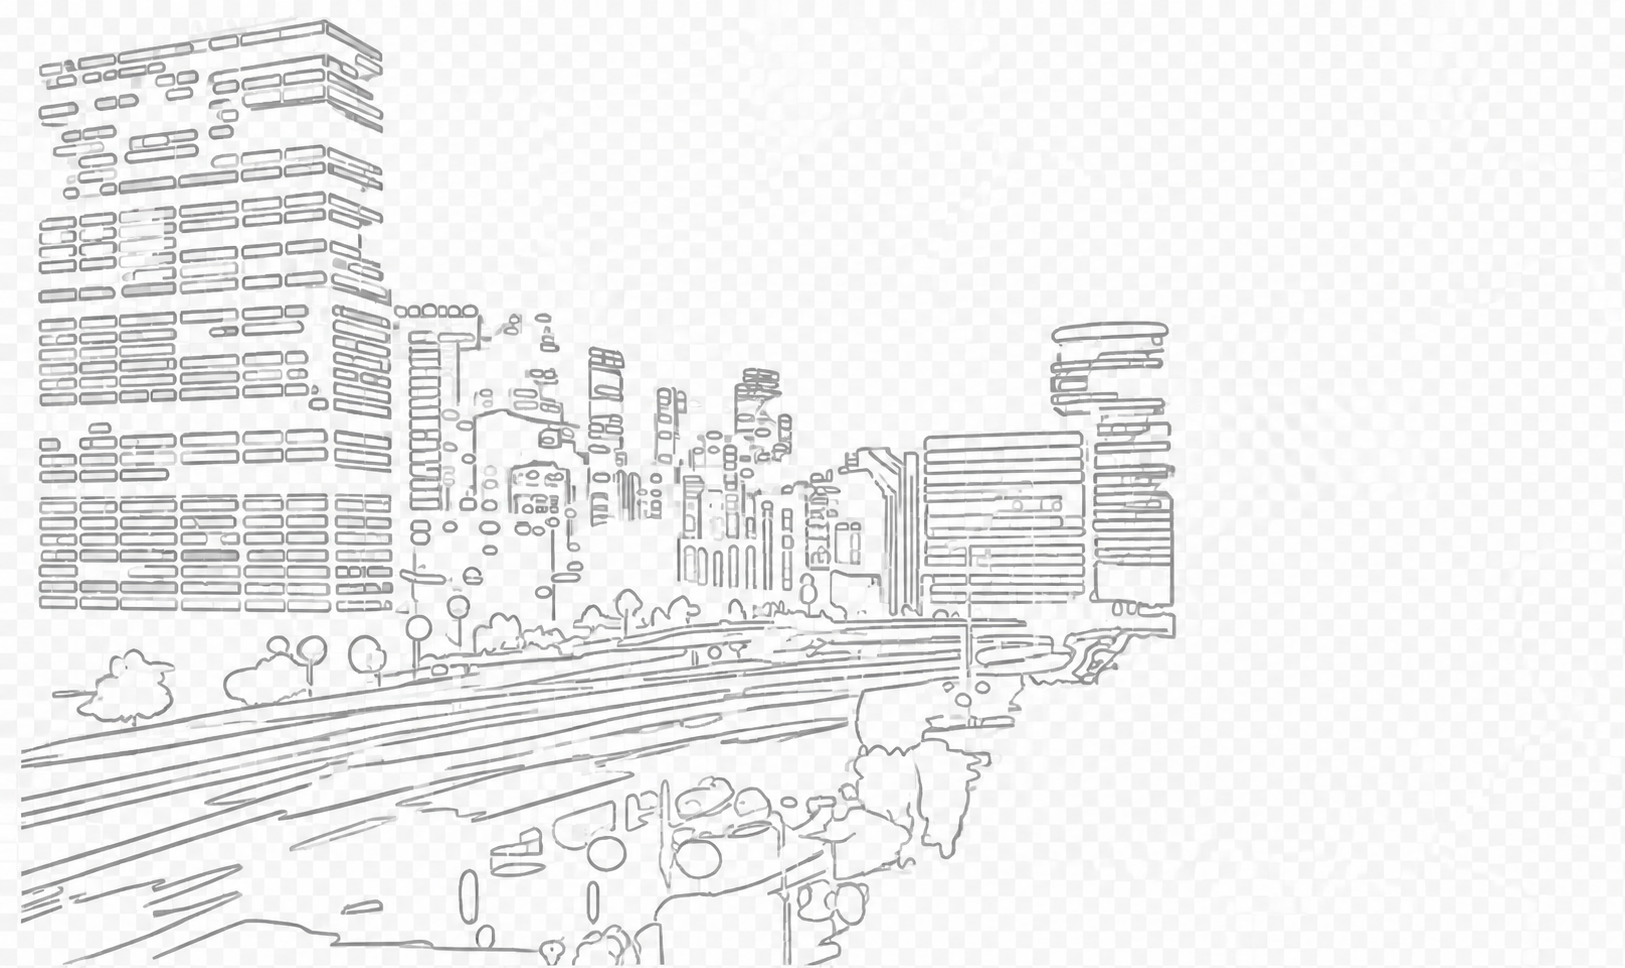
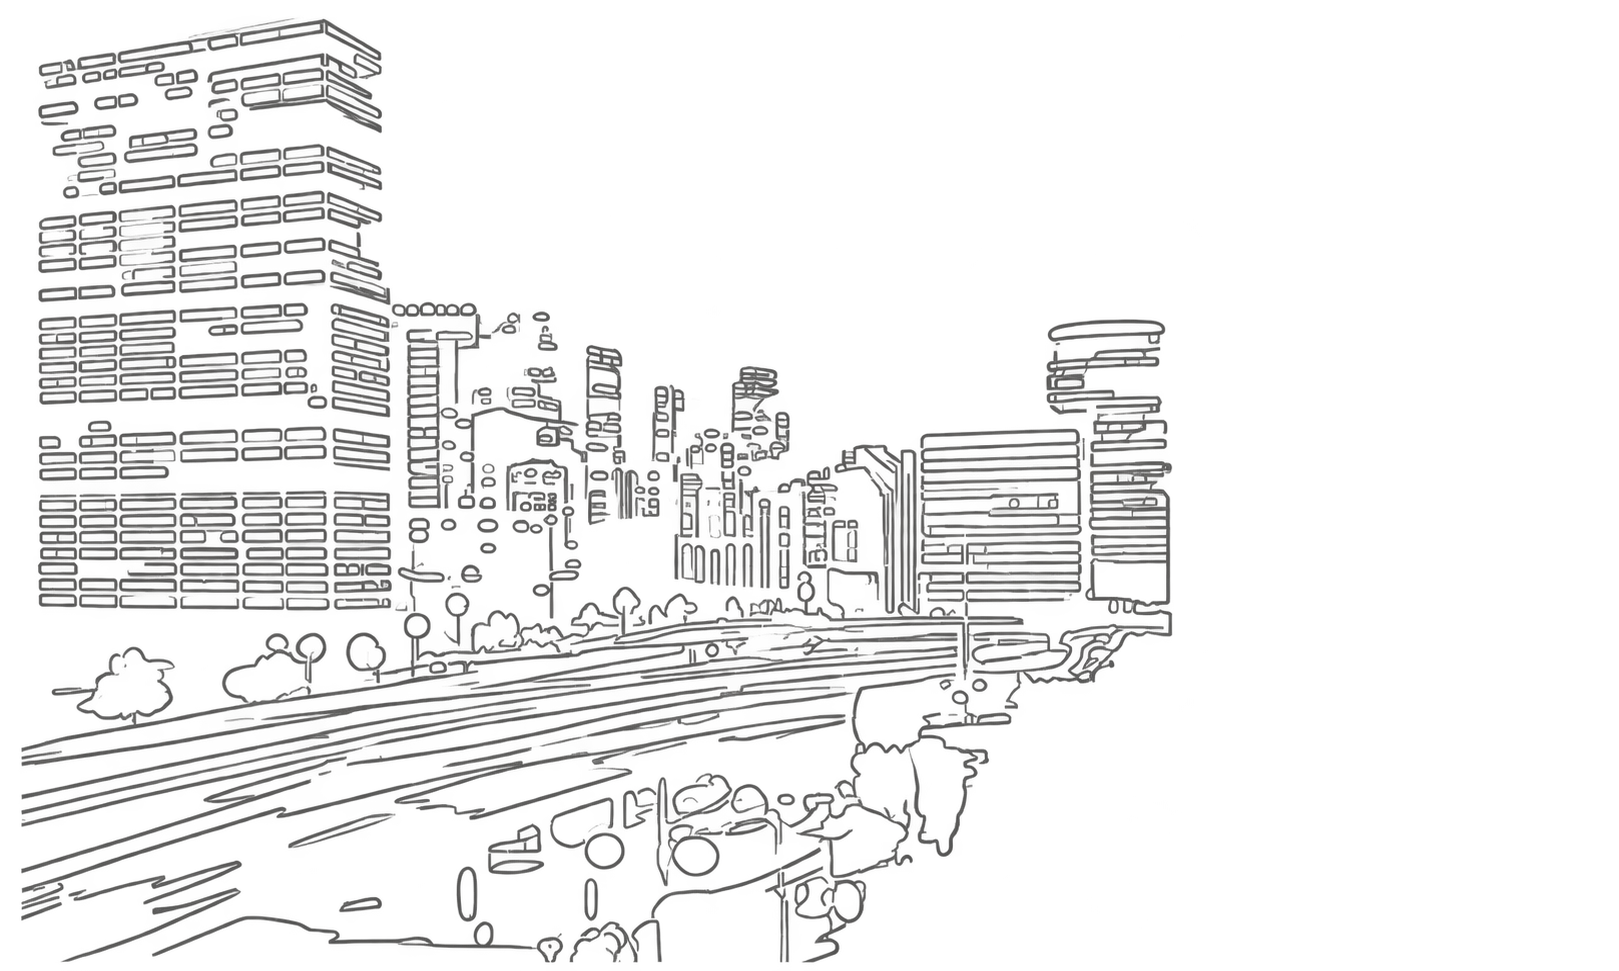
Remove checkerboard from city background

Changed region(s): [[0.0, 0.0, 0.7412, 1.0]]

diff --git a/reklama-2/index.html b/reklama-2/index.html
@@ -5,7 +5,7 @@
   <meta name="viewport" content="width=device-width, initial-scale=1.0" />
   <meta name="description" content="Наружная реклама, логотипы на одежду, охрана труда и ТБ, маркировка трупопроводов — ООО «ВС-РЕКЛАМА», Челябинск" />
   <title>Реклама и брендирование — ООО «ВС-РЕКЛАМА», Челябинск</title>
-  <link rel="stylesheet" href="styles.css?v=city-background-1000" />
+  <link rel="stylesheet" href="styles.css?v=city-background-transparent" />
 </head>
 <body data-page="home">
   <header class="site-header">

diff --git a/reklama-2/styles.css b/reklama-2/styles.css
@@ -70,7 +70,7 @@ body {
 
 body[data-page="home"] {
   background-color: #f3f3f3;
-  background-image: url("assets/city-gray-bg.png");
+  background-image: url("assets/city-gray-bg.png?v=transparent-1");
   background-repeat: repeat-y;
   background-position: center top;
   background-size: min(1000px, 100vw) auto;
